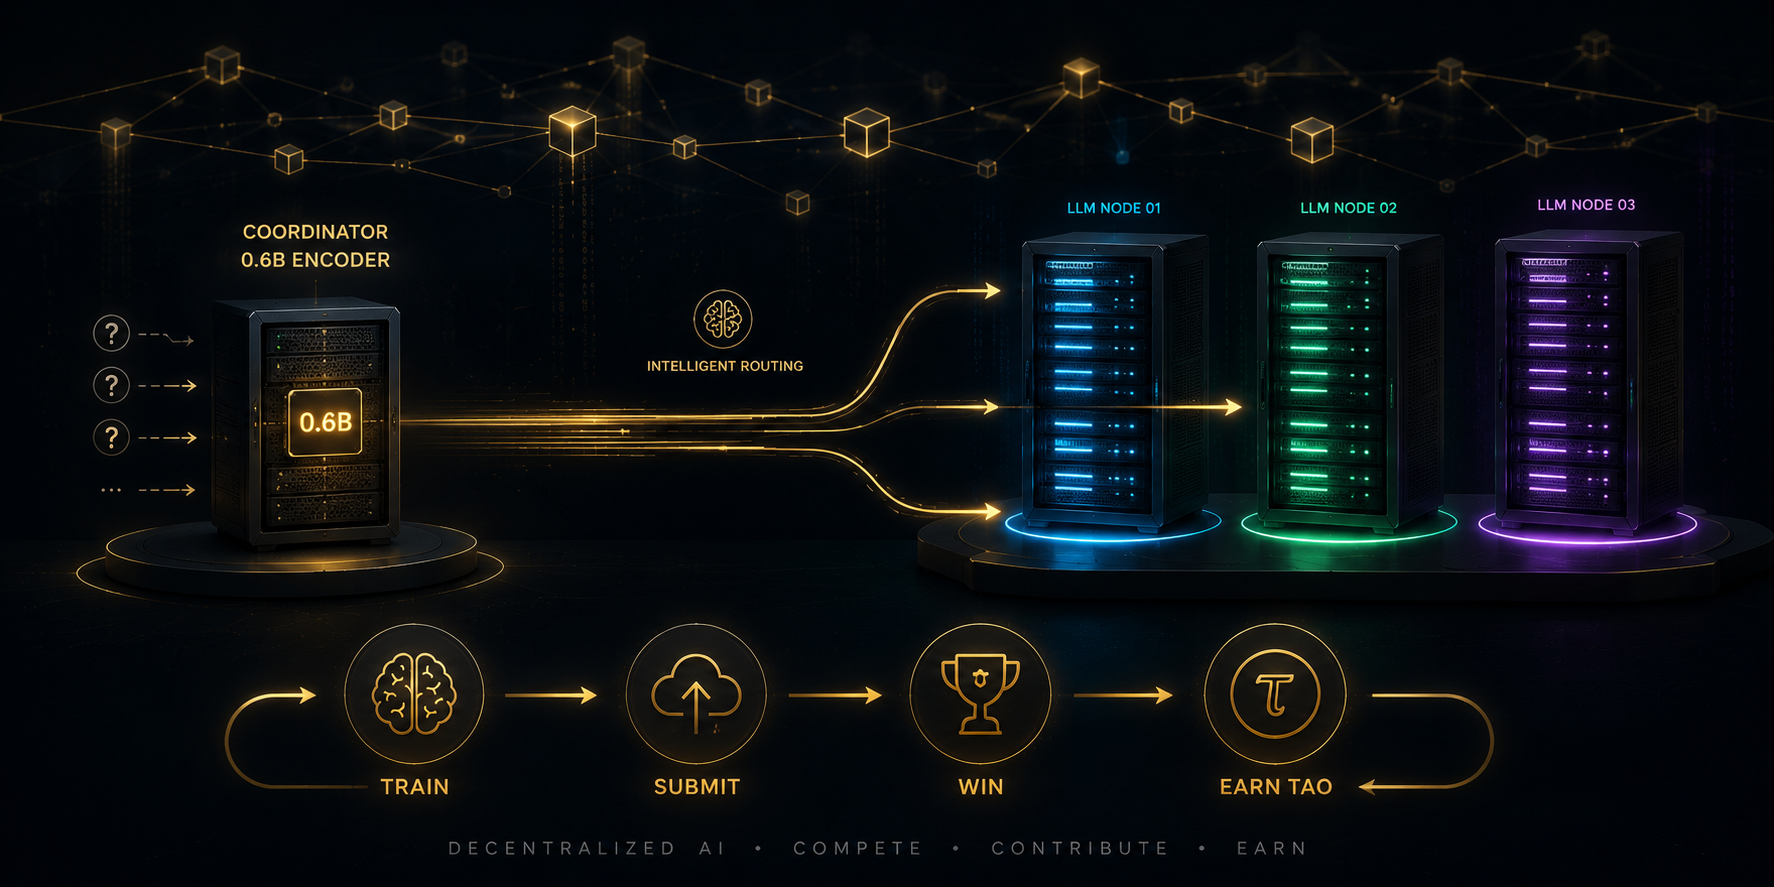
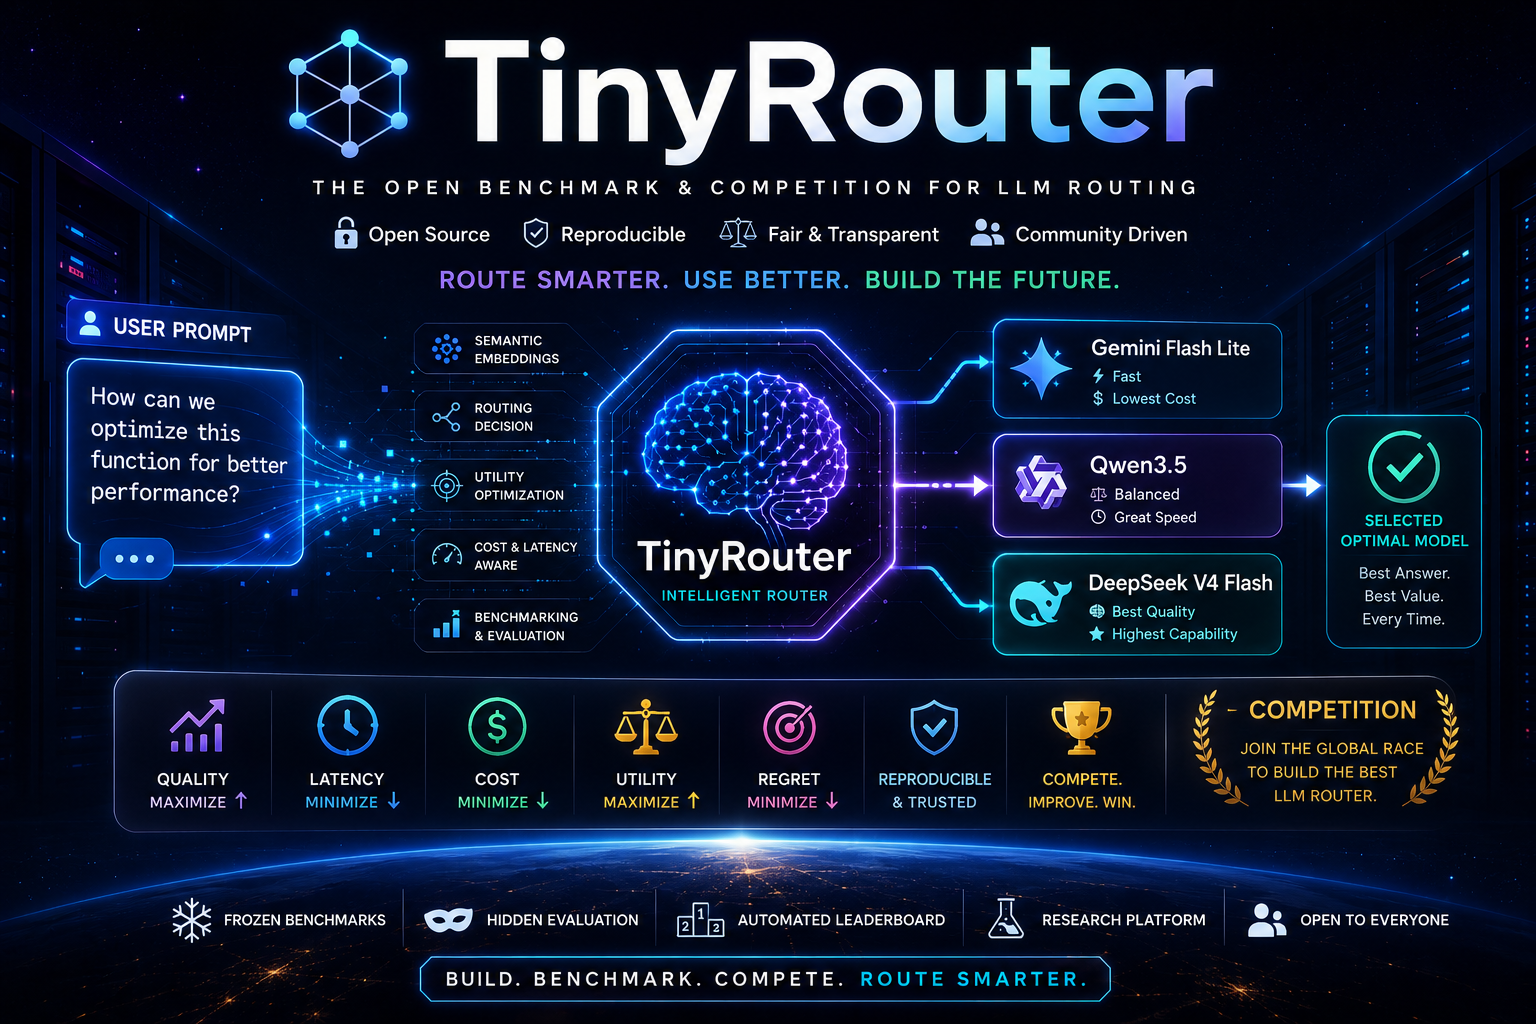
fix: use full model names as short names (qwen3.5-35b-a3b, gemini-3.1-flash-lite)
The short name now matches the model's actual name (after stripping the
provider prefix from the OpenRouter ID). This removes ambiguity between
abbreviated marketing names and the real model identifiers.

  qwen3.5           → qwen3.5-35b-a3b
  gemini-flash-lite → gemini-3.1-flash-lite
  deepseek-v4-flash → (unchanged)

Updated across 22 files: configs, constants, pricing tables, test fixtures,
docs, baselines, scripts.

diff --git a/tests/test_openrouter_pricing.py b/tests/test_openrouter_pricing.py
@@ -27,8 +27,8 @@ _spec.loader.exec_module(pack_submission)
 # Rate resolution
 # --------------------------------------------------------------------------- #
 def test_resolve_rates_returns_pool_table_for_known_slug():
-    assert OP.resolve_rates("qwen3.5") == (0.14, 1.00)
-    assert OP.resolve_rates("openrouter/qwen3.5") == (0.14, 1.00)
+    assert OP.resolve_rates("qwen3.5-35b-a3b") == (0.14, 1.00)
+    assert OP.resolve_rates("openrouter/qwen3.5-35b-a3b") == (0.14, 1.00)
 
 
 def test_resolve_rates_falls_back_to_blended_default_for_unknown():
@@ -38,14 +38,14 @@ def test_resolve_rates_falls_back_to_blended_default_for_unknown():
 
 def test_token_cost_splits_prompt_and_completion_rates():
     # 1M prompt @ 0.14 + 1M completion @ 1.00 = 1.14 for qwen
-    assert OP.token_cost("qwen3.5", 1_000_000, 1_000_000) == pytest.approx(1.14)
+    assert OP.token_cost("qwen3.5-35b-a3b", 1_000_000, 1_000_000) == pytest.approx(1.14)
 
 
 def test_flat_blended_formula_differs_from_split_pricing():
     """The old bug: one rate on (p+c) is not the same as split in/out."""
     prompt_only = 1_000_000
     completion_only = 0
-    split = OP.token_cost("qwen3.5", prompt_only, completion_only)
+    split = OP.token_cost("qwen3.5-35b-a3b", prompt_only, completion_only)
     flat_bug = 0.90 * (prompt_only + completion_only) / 1_000_000
     assert split == pytest.approx(0.14)
     assert flat_bug == pytest.approx(0.90)
@@ -55,9 +55,9 @@ def test_flat_blended_formula_differs_from_split_pricing():
 @pytest.mark.parametrize(
     "model, prompt, completion, expected",
     [
-        ("qwen3.5", 1_000_000, 0, 0.14),
-        ("qwen3.5", 0, 1_000_000, 1.00),
-        ("gemini-flash-lite", 1_000_000, 1_000_000, 1.75),
+        ("qwen3.5-35b-a3b", 1_000_000, 0, 0.14),
+        ("qwen3.5-35b-a3b", 0, 1_000_000, 1.00),
+        ("gemini-3.1-flash-lite", 1_000_000, 1_000_000, 1.75),
         ("deepseek-v4-flash", 2_000_000, 500_000, 0.27),
     ],
 )
@@ -73,8 +73,8 @@ def test_token_cost_matches_manual_arithmetic(model, prompt, completion, expecte
 # --------------------------------------------------------------------------- #
 def test_sum_entry_costs_aggregates_multiple_models(tmp_path: Path):
     ledger = tmp_path / "ledger.jsonl"
-    CL.append_ledger_entry(ledger, "qwen3.5", 1_000_000, 0)
-    CL.append_ledger_entry(ledger, "gemini-flash-lite", 0, 1_000_000)
+    CL.append_ledger_entry(ledger, "qwen3.5-35b-a3b", 1_000_000, 0)
+    CL.append_ledger_entry(ledger, "gemini-3.1-flash-lite", 0, 1_000_000)
     entries = CL.read_ledger_entries(ledger)
     # 0.14 (qwen prompt) + 1.50 (gemini completion)
     assert OP.sum_entry_costs(entries) == pytest.approx(1.64)
@@ -89,7 +89,7 @@ def test_verified_ledger_total_usd_requires_intact_chain(tmp_path: Path):
 
 def test_verified_ledger_total_usd_returns_none_on_tampered_chain(tmp_path: Path):
     ledger = tmp_path / "ledger.jsonl"
-    CL.append_ledger_entry(ledger, "qwen3.5", 100, 50)
+    CL.append_ledger_entry(ledger, "qwen3.5-35b-a3b", 100, 50)
     text = ledger.read_text(encoding="utf-8")
     ledger.write_text(text.replace('"p":100', '"p":999'), encoding="utf-8")
     assert OP.verified_ledger_total_usd(ledger) is None
@@ -118,7 +118,7 @@ def test_verified_ledger_total_usd_returns_none_for_non_utf8_file(tmp_path: Path
 # --------------------------------------------------------------------------- #
 def test_pack_submission_estimate_cost_matches_pricing_module(tmp_path: Path, monkeypatch):
     ledger = tmp_path / "ledger.jsonl"
-    CL.append_ledger_entry(ledger, "qwen3.5", 2_000_000, 500_000)
+    CL.append_ledger_entry(ledger, "qwen3.5-35b-a3b", 2_000_000, 500_000)
     monkeypatch.setenv("TRINITY_COST_LEDGER", str(ledger))
     assert pack_submission._estimate_cost() == round(OP.verified_ledger_total_usd(ledger), 4)
 
@@ -130,6 +130,6 @@ def test_pack_submission_estimate_cost_zero_without_ledger(monkeypatch):
 
 def test_pack_submission_estimate_cost_zero_on_broken_chain(tmp_path: Path, monkeypatch):
     ledger = tmp_path / "ledger.jsonl"
-    ledger.write_text('{"m":"qwen3.5","p":1,"c":2}\n', encoding="utf-8")
+    ledger.write_text('{"m":"qwen3.5-35b-a3b","p":1,"c":2}\n', encoding="utf-8")
     monkeypatch.setenv("TRINITY_COST_LEDGER", str(ledger))
     assert pack_submission._estimate_cost() == 0.0

diff --git a/tests/test_pr_eval_adapter_scoring.py b/tests/test_pr_eval_adapter_scoring.py
@@ -25,7 +25,7 @@ sys.path.insert(0, str(_REPO / "scripts"))
 import pr_eval  # noqa: E402
 from trinity.types import Trajectory, TurnRecord  # noqa: E402
 
-_POOL = ["qwen3.5", "gemini-flash-lite", "deepseek-v4-flash"]
+_POOL = ["qwen3.5-35b-a3b", "gemini-3.1-flash-lite", "deepseek-v4-flash"]
 _GOLD = "diff --git a/f b/f\n@@ -1 +1 @@\n-x\n+y\n"
 _PATCH_REF = {
     "repo": "octo/calc", "base_commit": "c0", "gold_patch": _GOLD,
@@ -50,7 +50,7 @@ def test_cached_scores_swebench_through_its_adapter():
         "question_text": "resolve the issue",
         "benchmark": "swebench_verified",
         "correct_answer": _PATCH_REF,
-        "model_answers": {"qwen3.5": _GOLD},
+        "model_answers": {"qwen3.5-35b-a3b": _GOLD},
     }
     acc = pr_eval._evaluate_cached(_FakePolicy(), [item], _POOL)
     assert acc == 1.0
@@ -72,7 +72,7 @@ def test_cached_math_is_behaviour_preserved():
         "question_text": "2+2",
         "benchmark": "math500",
         "correct_answer": "4",
-        "model_answers": {"qwen3.5": "\\boxed{4}"},
+        "model_answers": {"qwen3.5-35b-a3b": "\\boxed{4}"},
     }
     acc = pr_eval._evaluate_cached(_FakePolicy(), [item], _POOL)
     assert acc == 1.0
@@ -85,7 +85,7 @@ def test_cached_math_wrong_answer_scores_zero():
         "question_text": "2+2",
         "benchmark": "math500",
         "correct_answer": "4",
-        "model_answers": {"qwen3.5": "\\boxed{5}"},
+        "model_answers": {"qwen3.5-35b-a3b": "\\boxed{5}"},
     }
     assert pr_eval._evaluate_cached(_FakePolicy(), [item], _POOL) == 0.0
 
@@ -140,7 +140,7 @@ def test_live_math_is_behaviour_preserved(monkeypatch):
         return Trajectory(
             task=task,
             turns=[
-                TurnRecord(turn=1, agent_name="gemini-flash-lite", role=_worker_role(),
+                TurnRecord(turn=1, agent_name="gemini-3.1-flash-lite", role=_worker_role(),
                            raw_output="\\boxed{4}", processed_output="\\boxed{4}"),
             ],
             final_answer="Looks good.",

diff --git a/baselines/always_model.py b/baselines/always_model.py
@@ -6,8 +6,8 @@ The best of the three models on each benchmark is "best-single", the baseline
 that any useful router must at least match.
 
 Usage:
-    python baselines/always_model.py --model qwen3.5 --benchmark math500
-    python baselines/always_model.py --model gemini-flash-lite --benchmark mmlu
+    python baselines/always_model.py --model qwen3.5-35b-a3b --benchmark math500
+    python baselines/always_model.py --model gemini-3.1-flash-lite --benchmark mmlu
     python baselines/always_model.py --model deepseek-v4-flash --benchmark livecodebench
 """
 from __future__ import annotations
@@ -52,7 +52,7 @@ async def run(model: str, benchmark: str, max_items: int) -> float:
 def main() -> None:
     ap = argparse.ArgumentParser(description="Always-pick-one-model baseline")
     ap.add_argument("--model", required=True,
-                    help="Model name (qwen3.5, gemini-flash-lite, deepseek-v4-flash)")
+                    help="Model name (qwen3.5-35b-a3b, gemini-3.1-flash-lite, deepseek-v4-flash)")
     ap.add_argument("--benchmark", required=True,
                     help="Benchmark name (math500, mmlu, livecodebench)")
     ap.add_argument("--max-items", type=int, default=120, dest="max_items")

diff --git a/tests/test_svf_submission.py b/tests/test_svf_submission.py
@@ -70,15 +70,15 @@ def test_evaluate_cached_uses_policy_svf():
             "question_text": "ab",
             "benchmark": "math500",
             "correct_answer": "42",
-            "model_answers": {"qwen3.5": "wrong", "gemini-flash-lite": "\\boxed{42}"},
+            "model_answers": {"qwen3.5-35b-a3b": "wrong", "gemini-3.1-flash-lite": "\\boxed{42}"},
         },
         {
             "question_text": "abc",
             "benchmark": "math500",
             "correct_answer": "7",
-            "model_answers": {"qwen3.5": "\\boxed{7}", "gemini-flash-lite": "wrong"},
+            "model_answers": {"qwen3.5-35b-a3b": "\\boxed{7}", "gemini-3.1-flash-lite": "wrong"},
         },
     ]
-    acc = _evaluate_cached(policy, items, ["qwen3.5", "gemini-flash-lite", "deepseek-v4-flash"])
+    acc = _evaluate_cached(policy, items, ["qwen3.5-35b-a3b", "gemini-3.1-flash-lite", "deepseek-v4-flash"])
     assert acc == 1.0
     assert policy.calls == 2

diff --git a/scripts/fugu_grpo_train.py b/scripts/fugu_grpo_train.py
@@ -68,8 +68,8 @@ class StubPool:
     """No-spend worker pool for CUDA/backend smoke tests."""
 
     models = {
-        "qwen3.5": "stub/qwen3.5",
-        "gemini-flash-lite": "stub/gemini-flash-lite",
+        "qwen3.5-35b-a3b": "stub/qwen3.5-35b-a3b",
+        "gemini-3.1-flash-lite": "stub/gemini-3.1-flash-lite",
         "deepseek-v4-flash": "stub/deepseek-v4-flash",
     }
 

diff --git a/scripts/oracle_ceiling.py b/scripts/oracle_ceiling.py
@@ -591,8 +591,8 @@ class _CostMeter:
 
 # OpenRouter list prices for the default pool: $/1M (in, out).
 _DEFAULT_PRICES = {
-    "qwen3.5": (0.14, 1.00),
-    "gemini-flash-lite": (0.25, 1.50),
+    "qwen3.5-35b-a3b": (0.14, 1.00),
+    "gemini-3.1-flash-lite": (0.25, 1.50),
     "deepseek-v4-flash": (0.09, 0.18),
 }
 

diff --git a/src/trinity/fugu/__init__.py b/src/trinity/fugu/__init__.py
@@ -22,8 +22,8 @@ Layout (mirrors ``openfugu/`` upstream):
 * :mod:`trinity.fugu.grpo`       framework-agnostic GRPO math (group-normalized
   advantages, no KL) and the rollout/loop skeleton.
 
-The worker pool is the current OpenRouter-backed trio: qwen3.5,
-  gemini-flash-lite, and deepseek-v4-flash.
+The worker pool is the current OpenRouter-backed trio: qwen3.5-35b-a3b,
+  gemini-3.1-flash-lite, and deepseek-v4-flash.
 """
 from __future__ import annotations
 

diff --git a/src/trinity/fugu/cost.py b/src/trinity/fugu/cost.py
@@ -35,8 +35,8 @@ __all__ = [
 # OpenRouter prices, $/1M tokens (prompt, completion). Keep in sync with
 # scripts/oracle_ceiling.py::_DEFAULT_PRICES.
 PRICES: dict[str, tuple[float, float]] = {
-    "qwen3.5": (0.14, 1.00),
-    "gemini-flash-lite": (0.25, 1.50),
+    "qwen3.5-35b-a3b": (0.14, 1.00),
+    "gemini-3.1-flash-lite": (0.25, 1.50),
     "deepseek-v4-flash": (0.09, 0.18),
 }
 

diff --git a/src/trinity/llm/openrouter_pricing.py b/src/trinity/llm/openrouter_pricing.py
@@ -30,8 +30,8 @@ __all__ = [
 # OpenRouter prices, $/1M tokens (prompt, completion). Keep in sync with
 # scripts/oracle_ceiling.py::_DEFAULT_PRICES and configs/models.yaml pool.
 OPENROUTER_POOL_PRICES: dict[str, tuple[float, float]] = {
-    "qwen3.5": (0.14, 1.00),
-    "gemini-flash-lite": (0.25, 1.50),
+    "qwen3.5-35b-a3b": (0.14, 1.00),
+    "gemini-3.1-flash-lite": (0.25, 1.50),
     "deepseek-v4-flash": (0.09, 0.18),
 }
 

diff --git a/src/trinity/submission/constants.py b/src/trinity/submission/constants.py
@@ -30,7 +30,7 @@ WIN_MARGIN: float = 0.02  # 2 percentage points — above the n=120 eval noise b
 LEDGER_RECEIPT_COST_TOLERANCE_USD: float = 0.05
 
 DEFAULT_POOL_MODELS: tuple[str, ...] = (
-    "qwen3.5",
-    "gemini-flash-lite",
+    "qwen3.5-35b-a3b",
+    "gemini-3.1-flash-lite",
     "deepseek-v4-flash",
 )

diff --git a/tests/test_pr_eval_live_scoring.py b/tests/test_pr_eval_live_scoring.py
@@ -19,14 +19,14 @@ def _verifier_accept_trajectory() -> Trajectory:
         turns=[
             TurnRecord(
                 turn=1,
-                agent_name="gemini-flash-lite",
+                agent_name="gemini-3.1-flash-lite",
                 role=Role.WORKER,
                 raw_output="\\boxed{4}",
                 processed_output="\\boxed{4}",
             ),
             TurnRecord(
                 turn=2,
-                agent_name="qwen3.5",
+                agent_name="qwen3.5-35b-a3b",
                 role=Role.VERIFIER,
                 raw_output="Looks good. VERDICT: ACCEPT",
                 processed_output="Looks good. VERDICT: ACCEPT",

diff --git a/scripts/fugu_baseline_eval.py b/scripts/fugu_baseline_eval.py
@@ -2,7 +2,7 @@
 """Prompted-baseline evaluation of the Fugu Conductor over the OpenRouter pool.
 
 ZERO training: a :class:`PromptedConductor` (an OpenRouter model) emits the
-workflow, the pool (qwen3.5 / gemini-flash-lite / deepseek-v4-flash) executes it, and we
+workflow, the pool (qwen3.5-35b-a3b / gemini-3.1-flash-lite / deepseek-v4-flash) executes it, and we
 report PURE-binary accuracy + parse rate + EXACT API cost. The per-query 0/1 it
 writes feeds ``scripts/oracle_ceiling.py --analyze --trinity-per-query`` so the
 Conductor can be compared against best-single and the routing ceiling on the